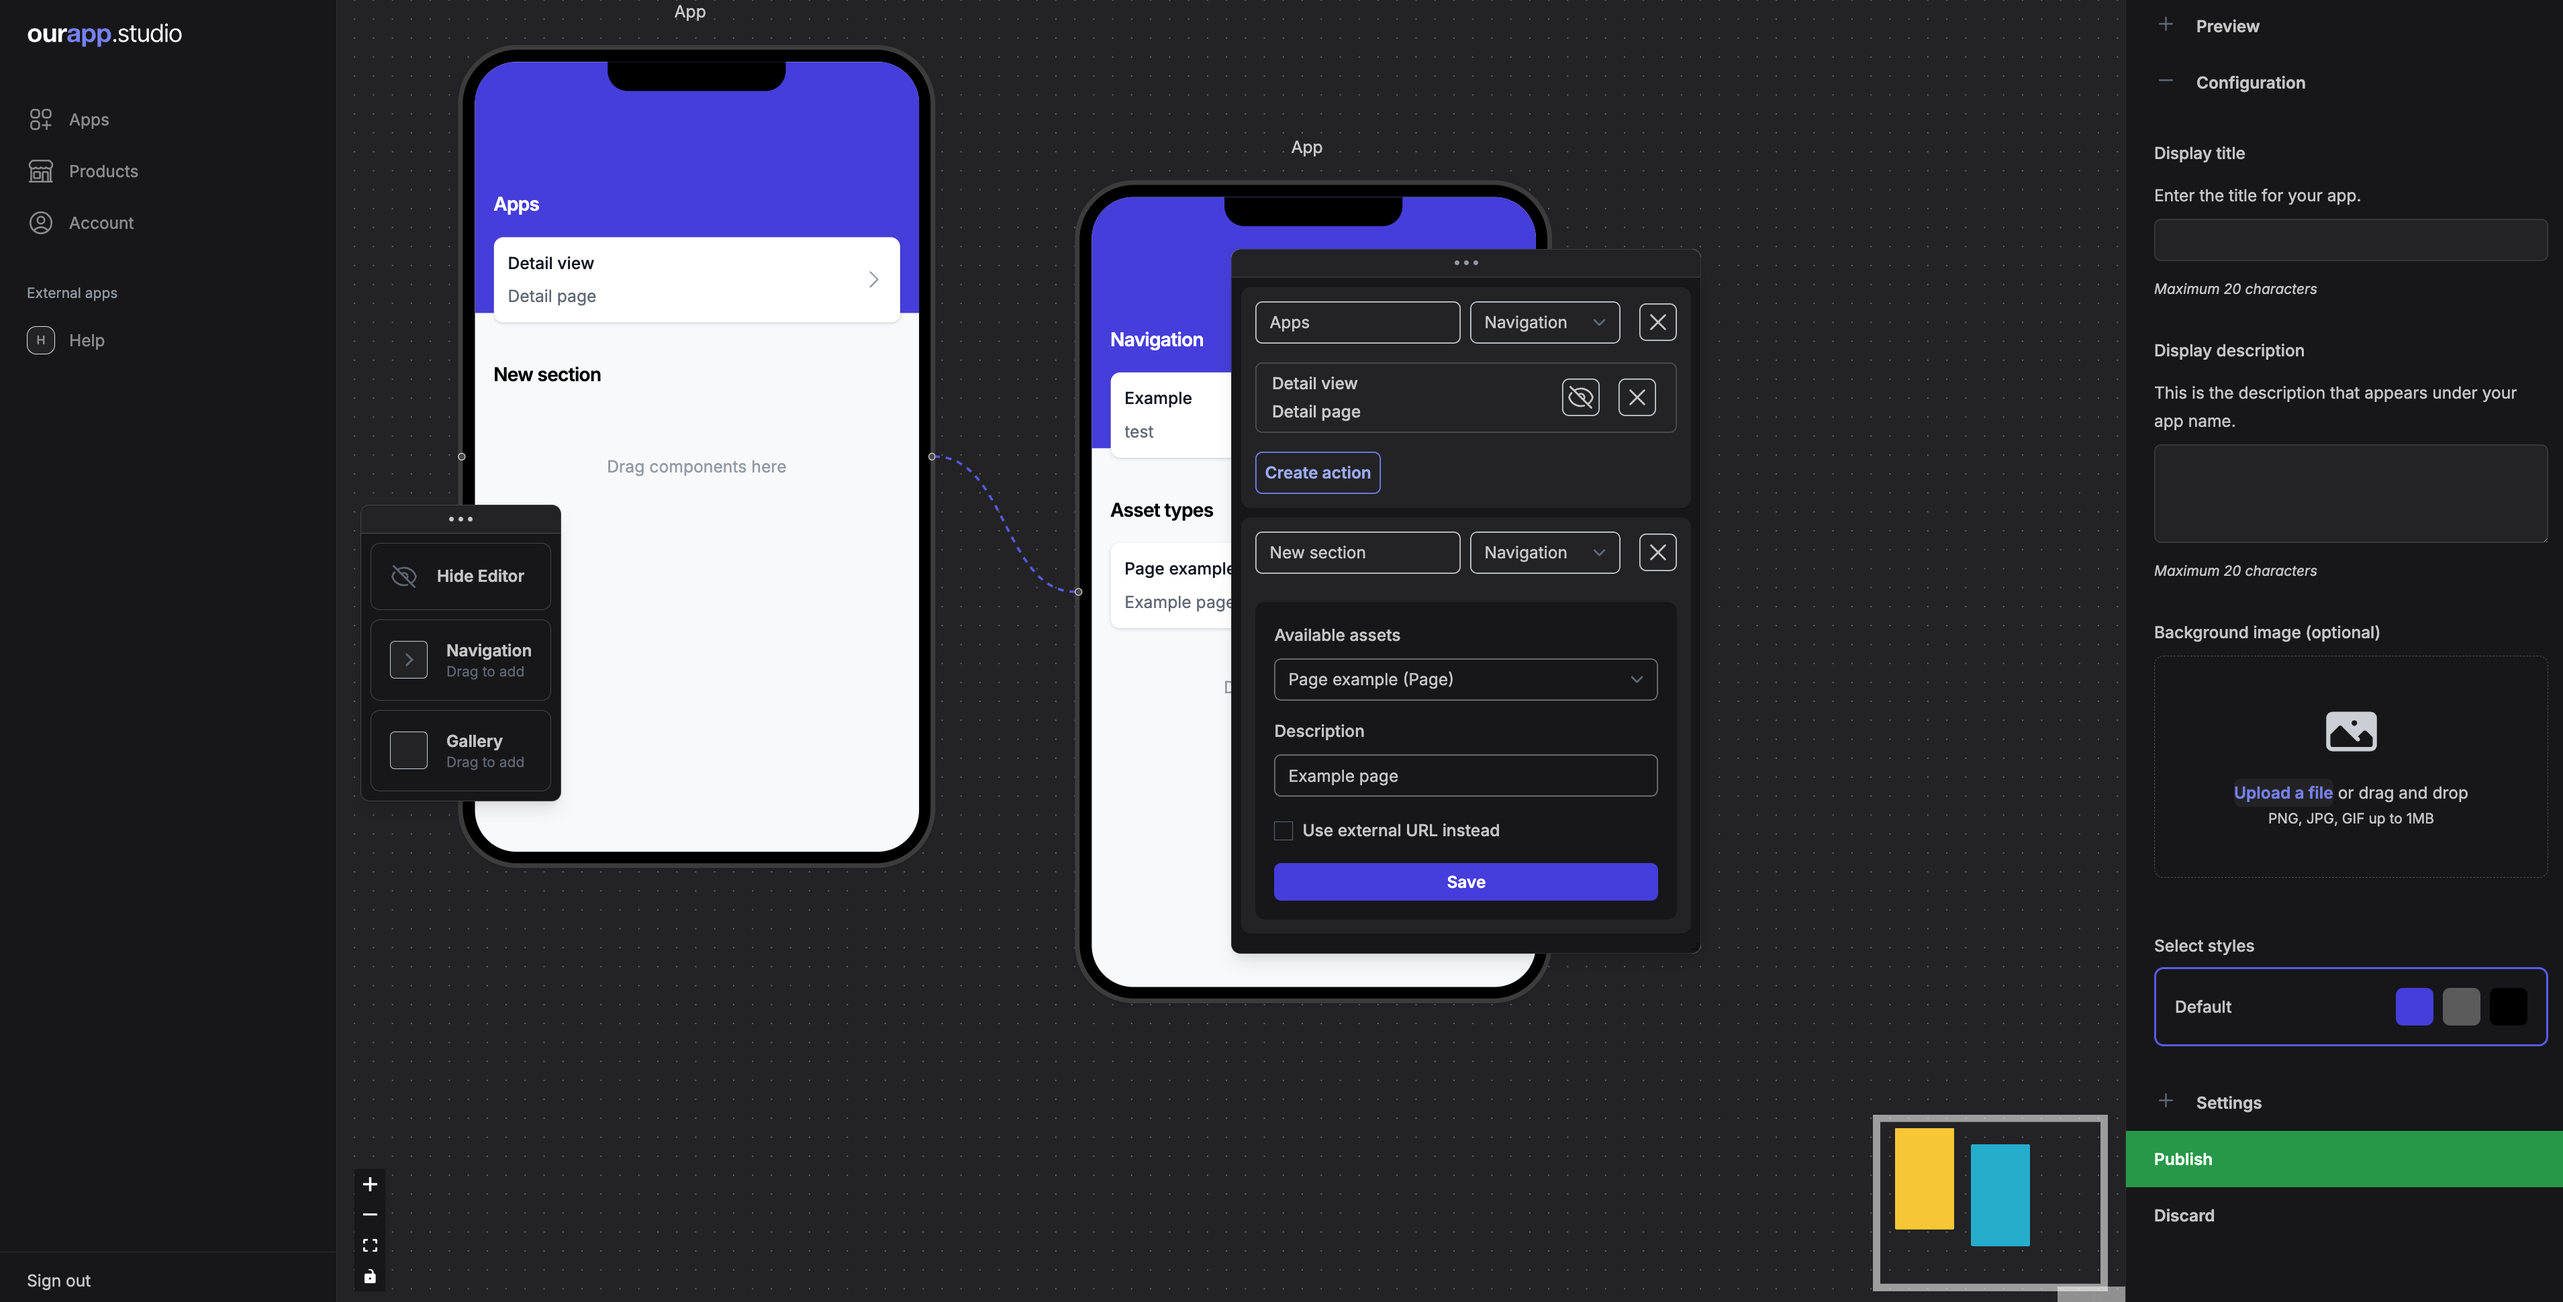
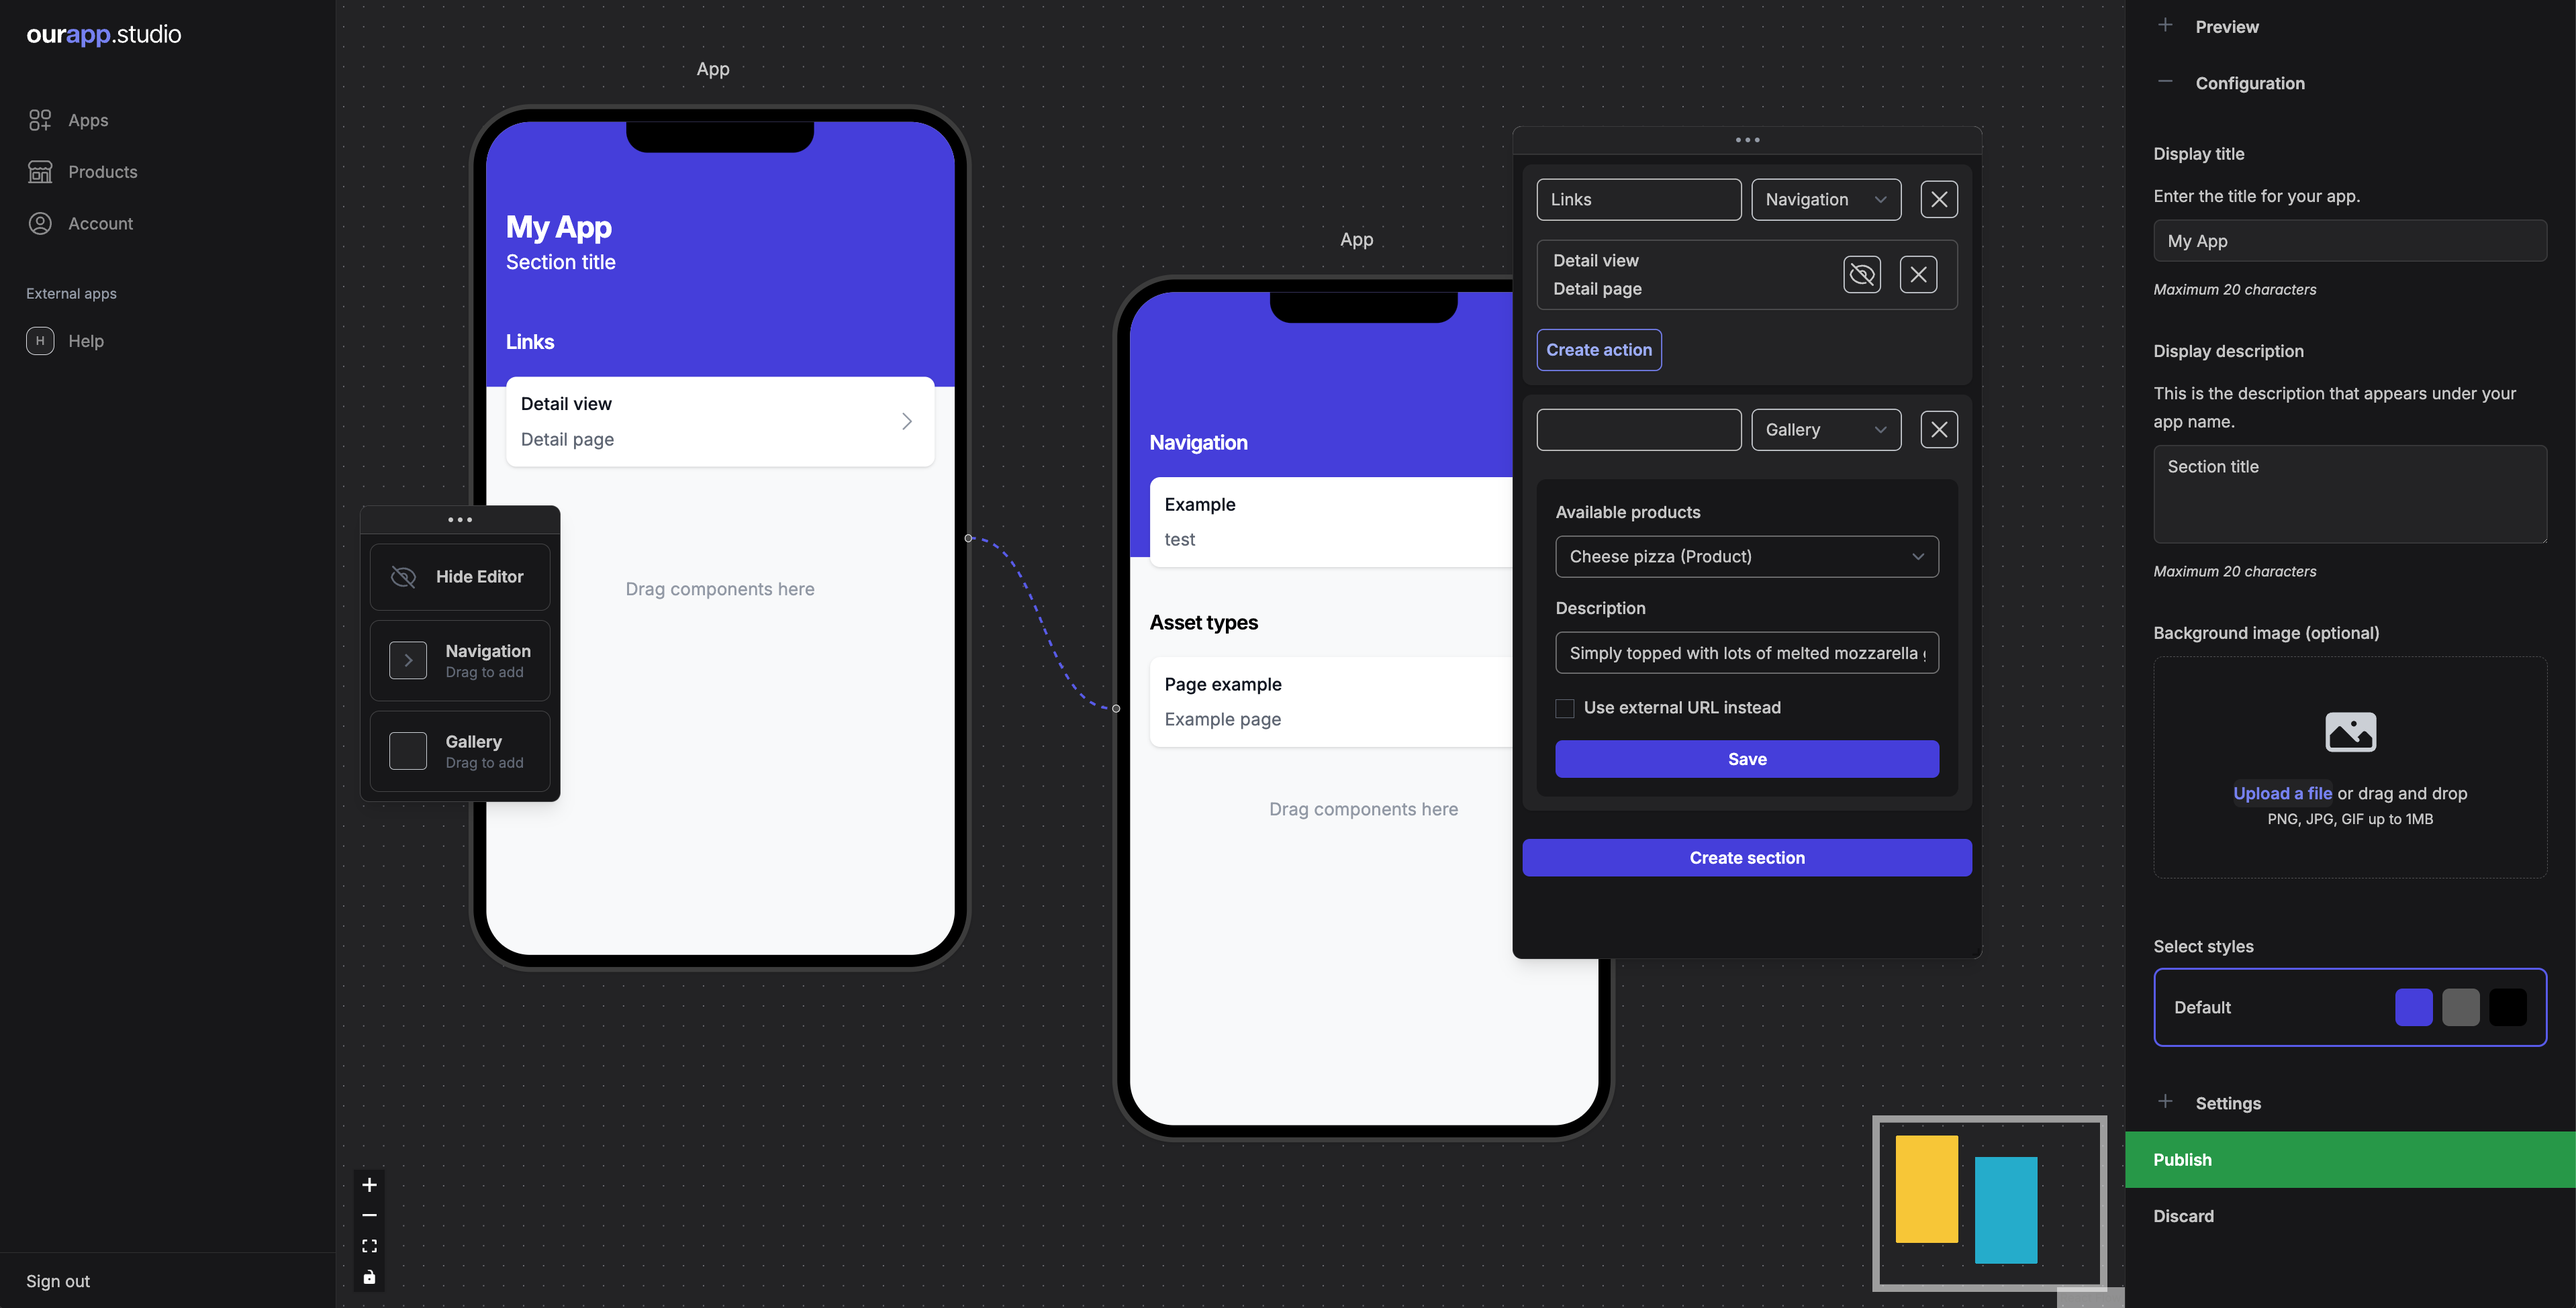
WIP:DEV

diff --git a/src/LandingPage.js b/src/LandingPage.js
@@ -266,8 +266,8 @@ export default function LandingPage() {
       
       <div id="FAQ" className="mx-auto px-6 pt-24 pb-24 lg:px-8 bg-gray-50 dark:bg-zinc-800">
         <div className="mx-auto max-w-2xl text-center"><h2 className="mt-2 text-4xl font-bold tracking-tight text-gray-900 dark:text-white sm:text-4xl">Frequently asked questions</h2></div>
-        <div className="mx-auto max-w-4xl divide-y divide-gray-900/10">
-          <dl className="mt-10 space-y-6 divide-y divide-gray-900/10">
+        <div className="mx-auto max-w-4xl divide-y divide-gray-900/10 dark:divide-white/10">
+          <dl className="mt-10 space-y-6 divide-y divide-gray-900/10 dark:divide-white/10">
             {faqs.map((faq) => (
               <Disclosure as="div" key={faq.question} className="pt-6">
                 {({ open }) => (

diff --git a/src/components/Features.js b/src/components/Features.js
@@ -135,7 +135,7 @@ export default function Features() {
                                                     {feature.description}
                                                 </p>
                                             </div>
-                                            <div className="mt-10 w-[45rem] overflow-hidden rounded-xl bg-slate-50 shadow-xl shadow-blue-900/20 sm:w-auto lg:mt-0 lg:w-[67.8125rem]">
+                                            <div className="mt-10 w-[45rem] overflow-hidden bg-slate-50 shadow-xl shadow-blue-900/20 sm:w-auto lg:mt-0 lg:w-[67.8125rem]">
                                                 <img
                                                     className="w-full"
                                                     src={feature.image}

diff --git a/src/components/Pricing.js b/src/components/Pricing.js
@@ -35,7 +35,7 @@ export default function Pricing() {
 
     return (
         <div id="pricing" className="isolate overflow-hidden bg-indigo-600 dark:bg-indigo-700">
-            <div className="mx-auto max-w-7xl px-6 pb-96 text-center sm:pt-16 lg:px-8">
+            <div className="mx-auto max-w-7xl p-6 pb-96 text-center sm:pt-16 lg:px-8">
                 <div className="mx-auto max-w-4xl">
                     <h2 className="text-base font-semibold leading-7 text-white">Pricing</h2>
                     <p className="mt-2 text-4xl font-bold tracking-tight text-white sm:text-5xl">

diff --git a/src/components/Banner.js b/src/components/Banner.js
@@ -4,7 +4,7 @@ export default function Banner() {
   return (
     <div className="flex items-center gap-x-6 bg-indigo-600 px-6 py-2.5 sm:px-3.5 sm:before:flex-1">
       <p className="text-sm/6 text-white">
-      🕹 ourapp.studio is currently in a 'pre-go live' stage.
+        🕹 ourapp.studio is in a 'pre-go live' phase.
       </p>
       <div className="flex flex-1 justify-end">
       </div>
